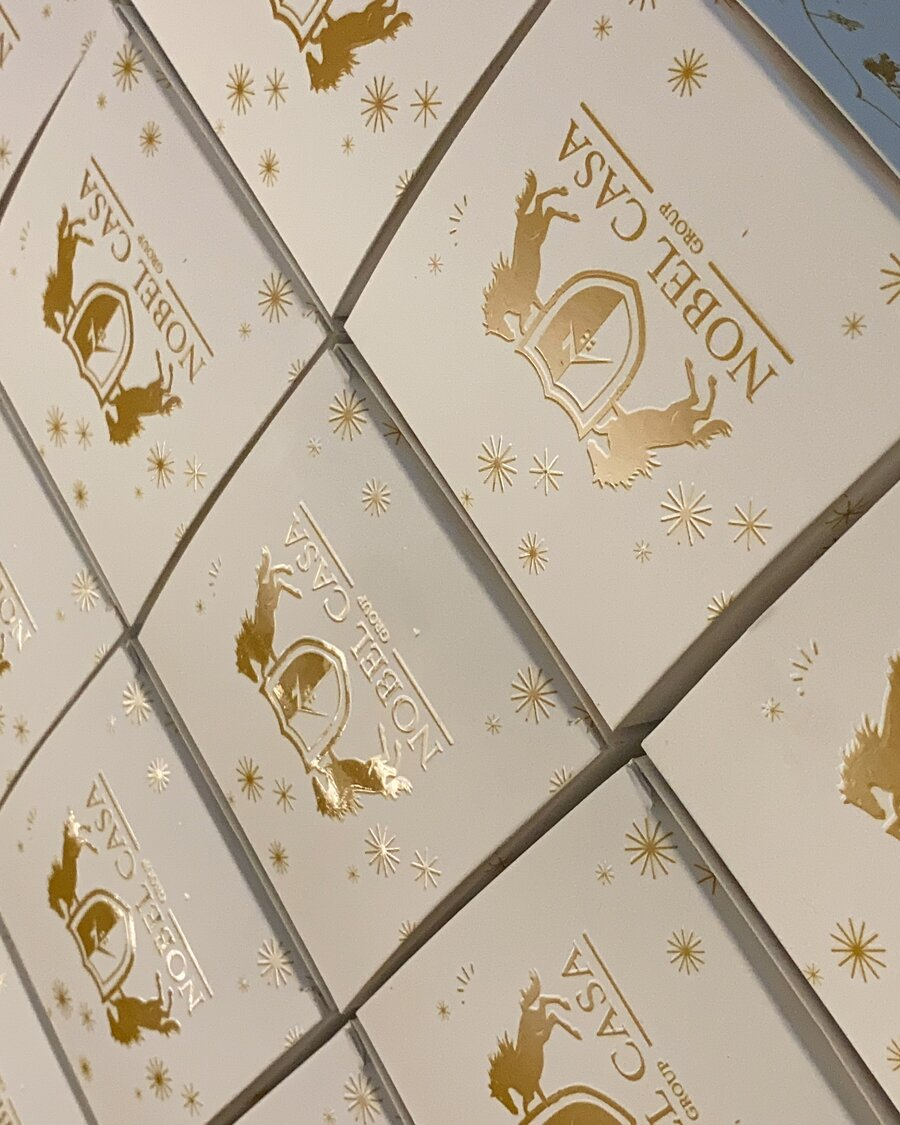
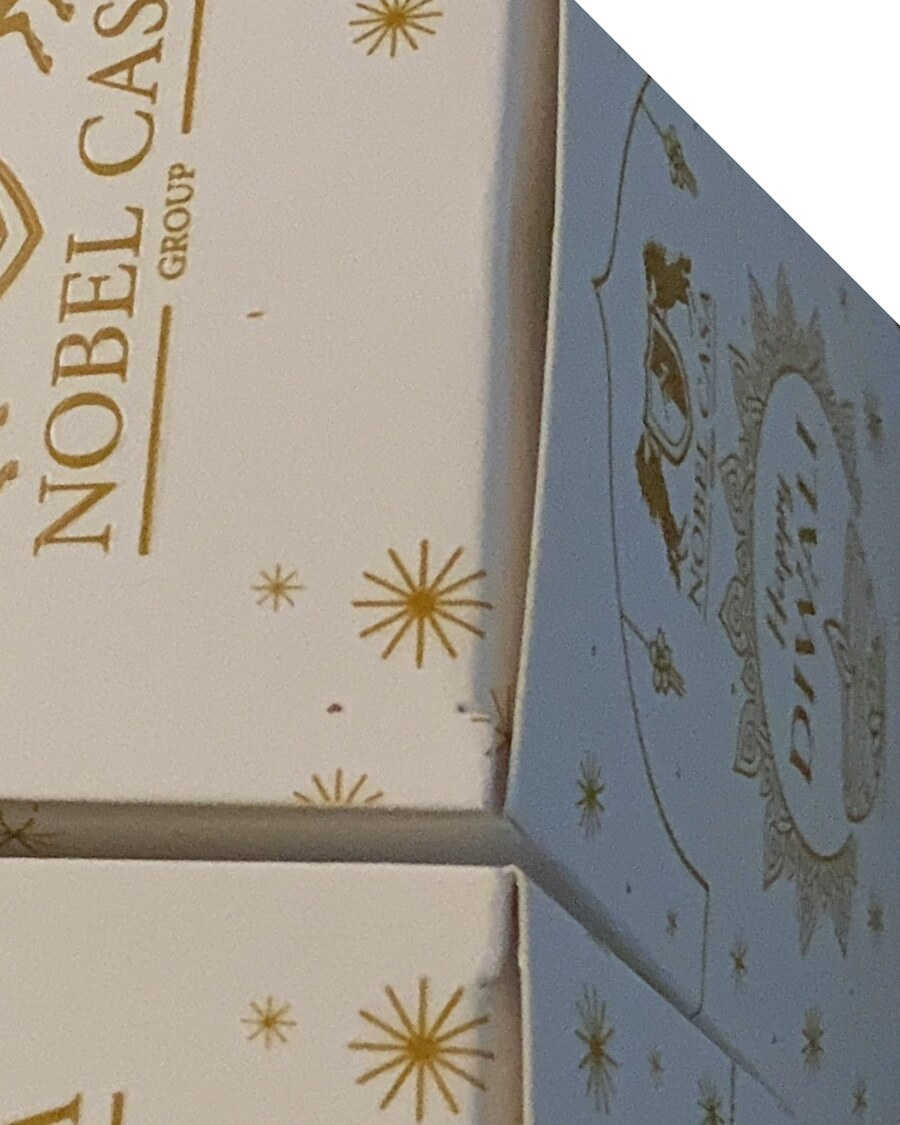
Update giveaway images to show boxes upright and clearly
Replace the Nobel Casa boxes image with a rotated and re-cropped version (`giveaway-nobelcasa-boxes2.jpg`) to display the boxes upright in the `CustomGiveaways.tsx` component.

Replit-Commit-Author: Agent
Replit-Commit-Session-Id: 58819924-537b-4c74-92b9-4a68993cd34e
Replit-Commit-Checkpoint-Type: full_checkpoint
Replit-Commit-Event-Id: bc7b21a2-4ea7-4275-859b-8a3c9d51bafe
Replit-Commit-Screenshot-Url: https://storage.googleapis.com/screenshot-production-us-central1/0c0a7e3b-8b5a-4f04-8577-ad26f3ce849f/58819924-537b-4c74-92b9-4a68993cd34e/HR4i8cZ
Replit-Helium-Checkpoint-Created: true

diff --git a/client/src/pages/CustomGiveaways.tsx b/client/src/pages/CustomGiveaways.tsx
@@ -8,7 +8,7 @@ const carouselImages = [
   { src: "/images/giveaway-statelife-jars.jpg",     alt: "Custom branded candle jars for State Life" },
   { src: "/images/giveaway-statelife-boxes.jpg",    alt: "State Life gift boxes with pink ribbons" },
   { src: "/images/giveaway-wedding-jars.jpg",       alt: "Personalised wedding favour candles" },
-  { src: "/images/giveaway-nobelcasa-boxes.jpg",    alt: "Nobel Casa Group custom gift boxes" },
+  { src: "/images/giveaway-nobelcasa-boxes2.jpg",   alt: "Nobel Casa Group custom gift boxes" },
   { src: "/images/giveaway-nobelcasa-candles.jpg",  alt: "Nobel Casa branded candles" },
   { src: "/images/giveaway-bubble-candles.jpg",     alt: "Bubble candles with dried flowers" },
   { src: "/images/giveaway-IMG_5394_1782340279008-opt.jpg", alt: "Custom giveaway candles" },
